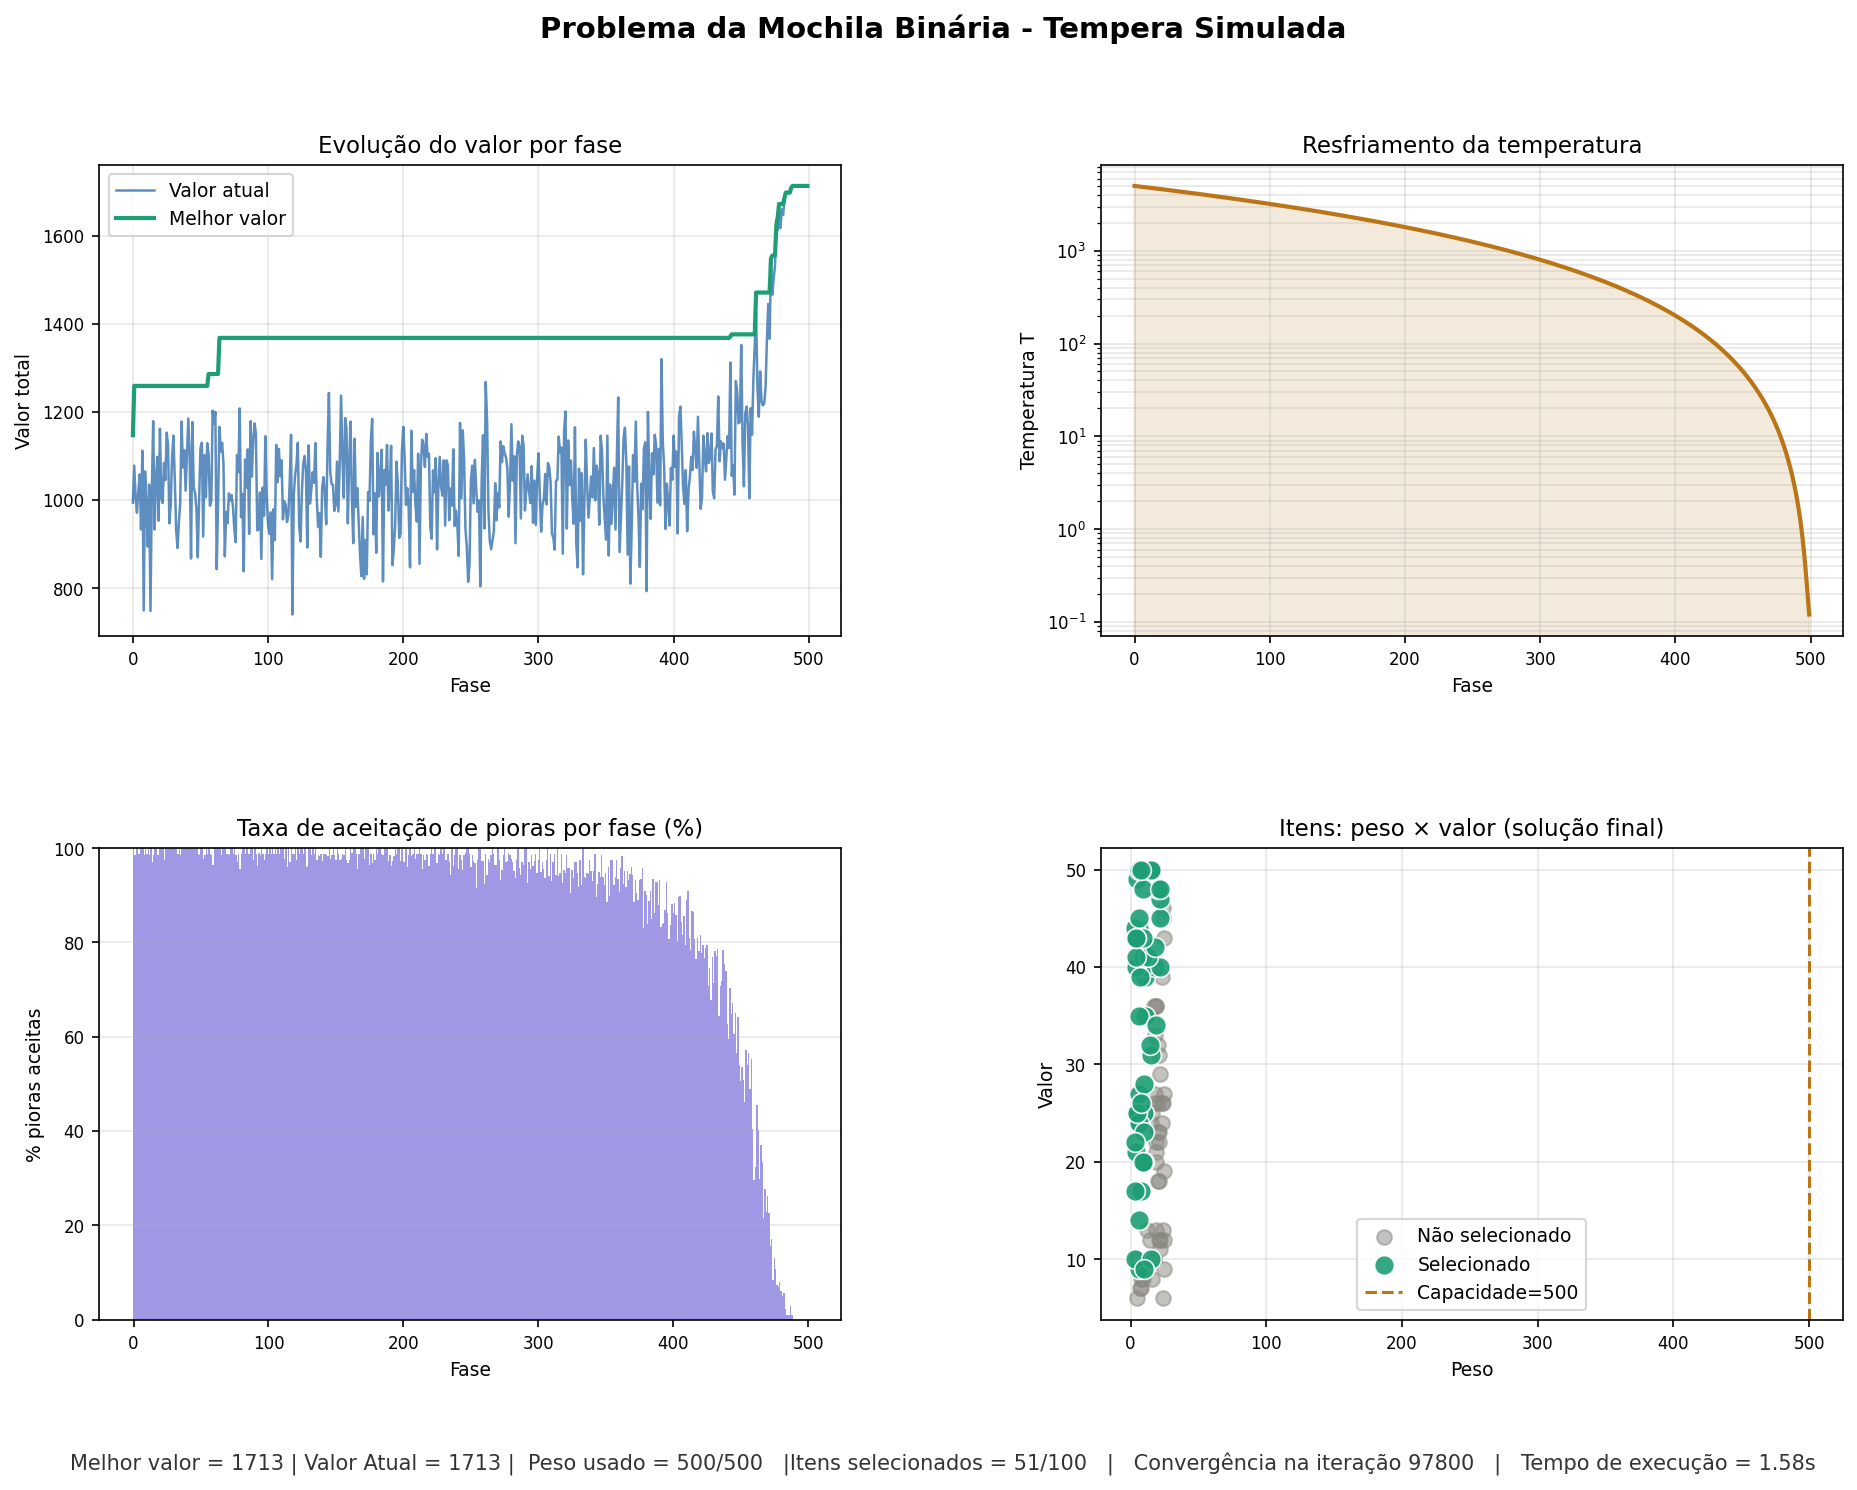
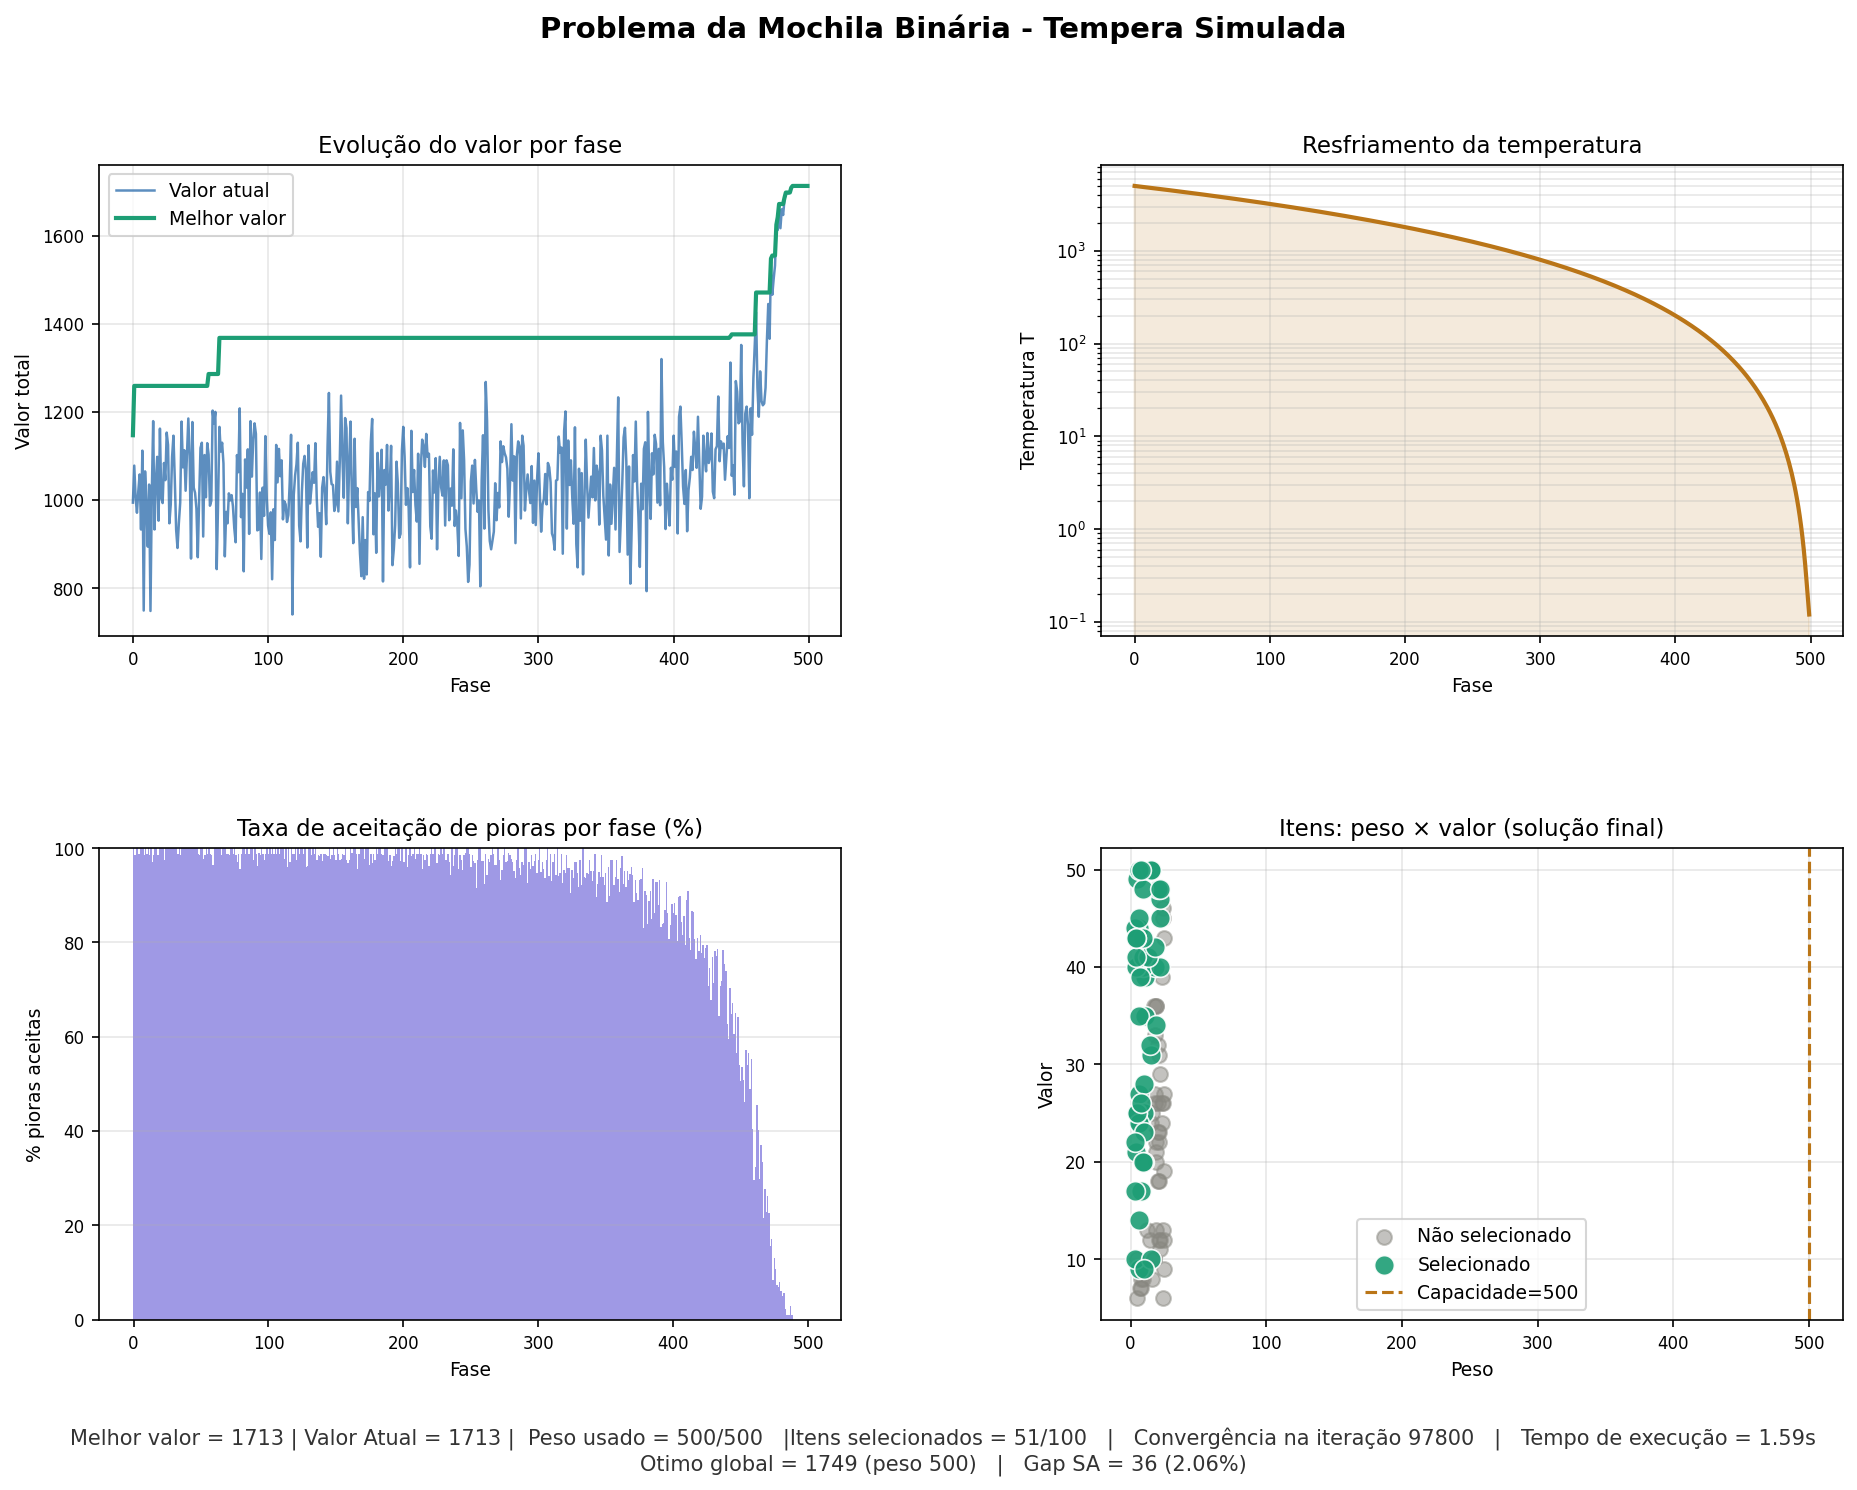
Otimo Global Tempera

Changed region(s): [[0.0312, 0.957, 0.9682, 0.9879]]

diff --git a/TemperaSimulada.py b/TemperaSimulada.py
@@ -154,7 +154,67 @@ def simulated_annealing(
     }
     return melhor, historico
 
-def plotar(historico, itens, melhor, capacidade, tempo_inicio=None):
+def maximo_global_mochila(itens, capacidade):
+    """Resolve a mochila 0/1 exatamente via programação dinâmica e reconstrói a solução ótima."""
+    n = len(itens)
+    dp = [[0] * (capacidade + 1) for _ in range(n + 1)]
+
+    for i in range(1, n + 1):
+        peso_i = itens[i - 1]["peso"]
+        valor_i = itens[i - 1]["valor"]
+        for cap in range(capacidade + 1):
+            melhor_sem_item = dp[i - 1][cap]
+            melhor_com_item = -1
+            if peso_i <= cap:
+                melhor_com_item = dp[i - 1][cap - peso_i] + valor_i
+            dp[i][cap] = max(melhor_sem_item, melhor_com_item)
+
+    solucao_otima = [0] * n
+    cap = capacidade
+    for i in range(n, 0, -1):
+        if dp[i][cap] != dp[i - 1][cap]:
+            solucao_otima[i - 1] = 1
+            cap -= itens[i - 1]["peso"]
+
+    valor_otimo = dp[n][capacidade]
+    peso_otimo = peso_total(solucao_otima, itens)
+    return solucao_otima, valor_otimo, peso_otimo
+
+def comparar_sa_com_otimo(melhor_solucao_sa, itens, capacidade):
+    """Compara o resultado da SA com o ótimo global exato da mochila."""
+    melhor_valor_sa = valor_total(melhor_solucao_sa, itens)
+    melhor_peso_sa = peso_total(melhor_solucao_sa, itens)
+
+    custo_dp = len(itens) * (capacidade + 1)
+    MAX_CUSTO_DP_EXATA = 300 * (capacidade + 1)
+
+    if custo_dp > MAX_CUSTO_DP_EXATA:
+        return {
+            "valor_sa": melhor_valor_sa,
+            "peso_sa": melhor_peso_sa,
+            "comparacao_exata": False,
+            "motivo": (
+                f"Comparacao exata pulada: custo DP={custo_dp} "
+                f"> limite {MAX_CUSTO_DP_EXATA} (MAX_ITENS*CAPACIDADE)"
+            ),
+        }
+
+    solucao_otima, valor_otimo, peso_otimo = maximo_global_mochila(itens, capacidade)
+    gap_abs = valor_otimo - melhor_valor_sa
+    gap_pct = (gap_abs / valor_otimo * 100) if valor_otimo > 0 else 0.0
+
+    return {
+        "valor_sa": melhor_valor_sa,
+        "peso_sa": melhor_peso_sa,
+        "comparacao_exata": True,
+        "solucao_otima": solucao_otima,
+        "valor_otimo": valor_otimo,
+        "peso_otimo": peso_otimo,
+        "gap_abs": gap_abs,
+        "gap_pct": gap_pct,
+    }
+
+def plotar(historico, itens, melhor, capacidade, tempo_inicio=None, comparacao=None):
     """Gera 4 gráficos explicativos do comportamento da TS."""
     fases = list(range(len(historico["val_atual"])))
 
@@ -248,10 +308,21 @@ def plotar(historico, itens, melhor, capacidade, tempo_inicio=None):
     tempo_decorrido = f"   |   Tempo de execução = {time.time() - tempo_inicio:.2f}s" if tempo_inicio else ""
     convergencia_texto = f"   |   Convergência na iteração {iteracao_convergencia}" if iteracao_convergencia else ""
     
-    fig.text(0.5, 0.01,
-             f"Melhor valor = {val_final} | Valor Atual = {val_atualfinal} |  Peso usado = {peso_usado}/{capacidade}   |"
-             f"Itens selecionados = {sum(melhor)}/{len(itens)}{convergencia_texto}{tempo_decorrido}",
-             ha="center", fontsize=10, color="#333")
+    texto_rodape = (
+        f"Melhor valor = {val_final} | Valor Atual = {val_atualfinal} |  Peso usado = {peso_usado}/{capacidade}   |"
+        f"Itens selecionados = {sum(melhor)}/{len(itens)}{convergencia_texto}{tempo_decorrido}"
+    )
+    
+    if comparacao is not None:
+        if comparacao.get("comparacao_exata"):
+            texto_rodape += (
+                f"\nOtimo global = {comparacao['valor_otimo']} (peso {comparacao['peso_otimo']})"
+                f"   |   Gap SA = {comparacao['gap_abs']} ({comparacao['gap_pct']:.2f}%)"
+            )
+        else:
+            texto_rodape += f"\n{comparacao.get('motivo', 'Comparacao exata nao realizada')}"
+    
+    fig.text(0.5, 0.01, texto_rodape, ha="center", fontsize=10, color="#333")
 
     plt.savefig("resultado_sa_knapsack.png", dpi=150, bbox_inches="tight")
     plt.show()
@@ -299,5 +370,5 @@ if __name__ == "__main__":
         iter_por_temp = 200,     # Vizinhanças avaliadas por nível de T
         seed          = None     
     )
-    #print(melhor_sol)
-    plotar(historico, itens, melhor_sol, capacidade, tempo_inicio)
+    comparacao = comparar_sa_com_otimo(melhor_sol, itens, capacidade)
+    plotar(historico, itens, melhor_sol, capacidade, tempo_inicio, comparacao)
